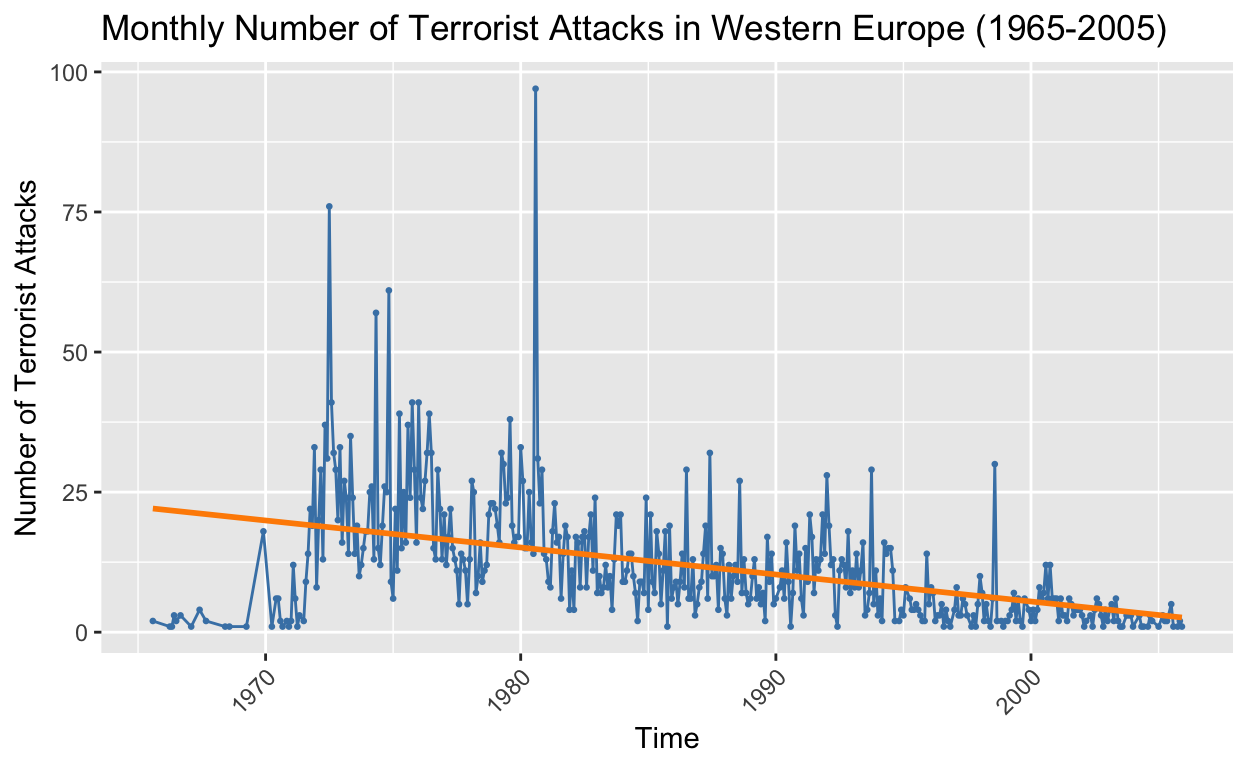
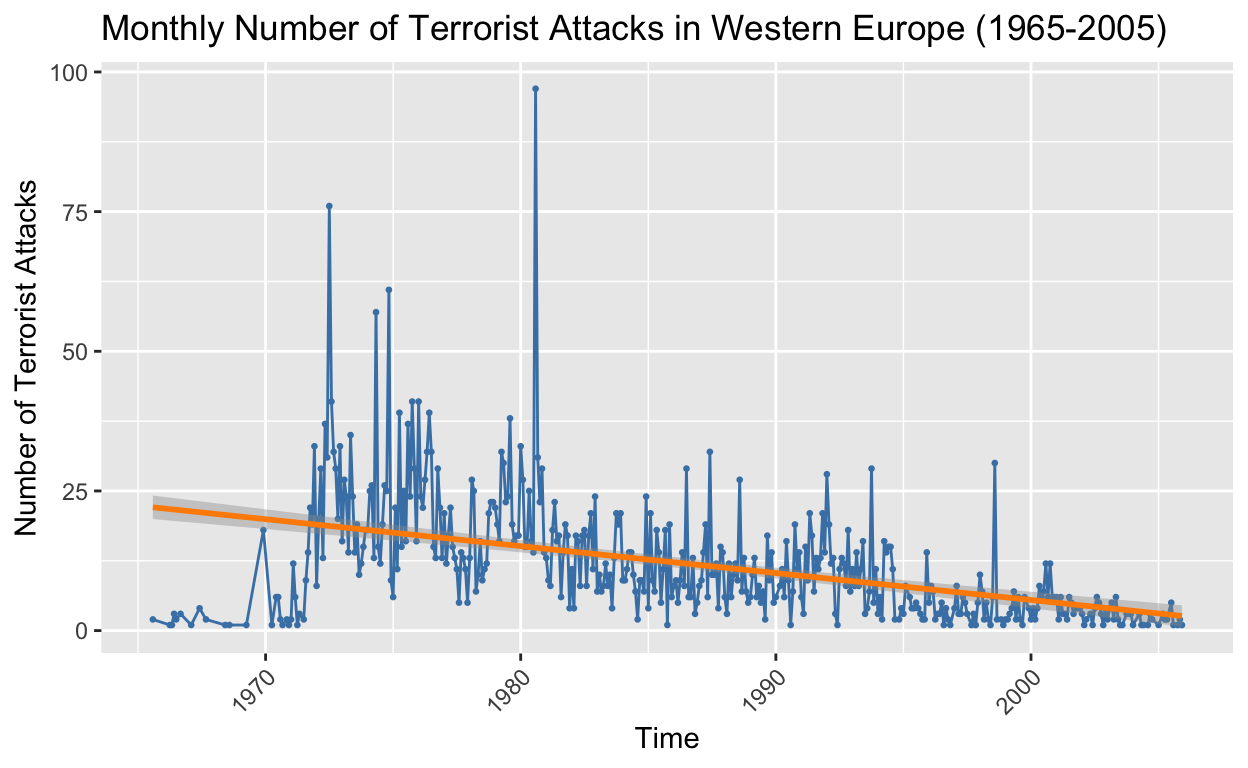
Task 4

diff --git a/index.html b/index.html
@@ -115,7 +115,7 @@ code span.wa { color: #5e5e5e; font-style: italic; } /* Warning */
   <!--/radix_placeholder_rmarkdown_metadata-->
   
   <script type="text/json" id="radix-resource-manifest">
-  {"type":"character","attributes":{},"value":["data/DTV2009.RData","index_files/anchor-4.2.2/anchor.min.js","index_files/bowser-1.9.3/bowser.min.js","index_files/distill-2.2.21/template.v2.js","index_files/figure-html5/Analysis 1-1.png","index_files/figure-html5/Analysis 2-1.png","index_files/header-attrs-2.17/header-attrs.js","index_files/header-attrs-2.25/header-attrs.js","index_files/jquery-3.6.0/jquery-3.6.0.js","index_files/jquery-3.6.0/jquery-3.6.0.min.js","index_files/jquery-3.6.0/jquery-3.6.0.min.map","index_files/popper-2.6.0/popper.min.js","index_files/tippy-6.2.7/tippy-bundle.umd.min.js","index_files/tippy-6.2.7/tippy-light-border.css","index_files/tippy-6.2.7/tippy.css","index_files/tippy-6.2.7/tippy.umd.min.js","index_files/webcomponents-2.0.0/webcomponents.js"]}
+  {"type":"character","attributes":{},"value":["data/DTV2009.RData","index_files/anchor-4.2.2/anchor.min.js","index_files/bowser-1.9.3/bowser.min.js","index_files/distill-2.2.21/template.v2.js","index_files/figure-html5/Analysis 1-1.png","index_files/figure-html5/Analysis 2-1.png","index_files/figure-html5/Analysis 3-1.png","index_files/header-attrs-2.17/header-attrs.js","index_files/header-attrs-2.25/header-attrs.js","index_files/jquery-3.6.0/jquery-3.6.0.js","index_files/jquery-3.6.0/jquery-3.6.0.min.js","index_files/jquery-3.6.0/jquery-3.6.0.min.map","index_files/popper-2.6.0/popper.min.js","index_files/tippy-6.2.7/tippy-bundle.umd.min.js","index_files/tippy-6.2.7/tippy-light-border.css","index_files/tippy-6.2.7/tippy.css","index_files/tippy-6.2.7/tippy.umd.min.js","index_files/webcomponents-2.0.0/webcomponents.js"]}
   </script>
   <!--radix_placeholder_navigation_in_header-->
   <!--/radix_placeholder_navigation_in_header-->
@@ -227,9 +227,21 @@ code span.wa { color: #5e5e5e; font-style: italic; } /* Warning */
     display: none !important;
   }
 
+  hr.section-separator {
+    border: none;
+    border-top: 1px solid rgba(0, 0, 0, 0.1);
+    margin: 0px;
+  }
+
+
+  d-byline {
+    border-top: none;
+  }
+
   d-article {
     padding-top: 2.5rem;
     padding-bottom: 30px;
+    border-top: none;
   }
 
   d-appendix {
@@ -324,6 +336,11 @@ code span.wa { color: #5e5e5e; font-style: italic; } /* Warning */
   d-article div.sourceCode pre {
     padding-left: 18px;
     font-size: 14px;
+  }
+
+  /* tweak for Pandoc numbered line within distill */
+  d-article pre.numberSource code > span {
+      left: -2em;
   }
 
   d-article pre {
@@ -1085,6 +1102,12 @@ code span.wa { color: #5e5e5e; font-style: italic; } /* Warning */
     // create d-title
     $('.d-title').changeElementType('d-title');
 
+    // separator
+    var separator = '<hr class="section-separator" style="clear: both"/>';
+    // prepend separator above appendix
+    $('.d-byline').before(separator);
+    $('.d-article').before(separator);
+
     // create d-byline
     var byline = $('<d-byline></d-byline>');
     $('.d-byline').replaceWith(byline);
@@ -1162,8 +1185,9 @@ code span.wa { color: #5e5e5e; font-style: italic; } /* Warning */
     $('.distill-force-highlighting-css').parent().remove();
 
     // remove empty line numbers inserted by pandoc when using a
-    // custom syntax highlighting theme
-    $('code.sourceCode a:empty').remove();
+    // custom syntax highlighting theme, except when numbering line
+    // in code chunk
+    $('pre:not(.numberLines) code.sourceCode a:empty').remove();
 
     // load distill framework
     load_distill_framework();
@@ -1189,12 +1213,13 @@ code span.wa { color: #5e5e5e; font-style: italic; } /* Warning */
       // add orcid ids
       $('.authors-affiliations').find('.author').each(function(i, el) {
         var orcid_id = front_matter.authors[i].orcidID;
+        var author_name = front_matter.authors[i].author
         if (orcid_id) {
           var a = $('<a></a>');
           a.attr('href', 'https://orcid.org/' + orcid_id);
           var img = $('<img></img>');
           img.addClass('orcid-id');
-          img.attr('alt', 'ORCID ID');
+          img.attr('alt', author_name ? 'ORCID ID for ' + author_name : 'ORCID ID');
[1 lines of base64/hex data omitted]
           a.append(img);
           $(this).append(a);
@@ -1504,6 +1529,7 @@ code span.wa { color: #5e5e5e; font-style: italic; } /* Warning */
 
 <div class="d-title">
 <h1>Gov 50 Final Project</h1>
+
 <!--radix_placeholder_categories-->
 <!--/radix_placeholder_categories-->
 <p>My final project</p>
@@ -1559,6 +1585,45 @@ code span.wa { color: #5e5e5e; font-style: italic; } /* Warning */
 </div>
 <p><img src="index_files/figure-html5/Analysis%201-1.png" width="624" /></p>
 </div>
+<p>Analysis:</p>
+<p>The bar chart visualizes the frequency of terrorist killings in Western European countries from 1965 to 2005 by month. From the chart, it’s evident that May and August had the highest number of reported killings, with May being the peak. There’s a noticeable increase in killings starting from April, with a peak in May, followed by a somewhat high frequency that persists through the summer and fall months before tapering off towards the end of the year. This pattern could suggest a seasonal trend in the frequency of terrorist activities, with late spring to early fall being periods of higher risk. However, to establish a solid conclusion, it would be essential to analyze the context of these events, the types of groups active during these times, and other socio-political factors that might influence these patterns</p>
+<p>However, upon further analysis, it’s important to note that this data is significantly skewed by four “mass casualty” events. Specifically, in May, there was one such event accounting for 26 deaths, which heavily influences the peak observed. In August, two mass casualty events, with 85 and 29 deaths respectively, disproportionately inflate the figures for that month. The presence of these outliers suggests that the apparent seasonal trend, with a spike in late spring and persisting through summer and fall, might not accurately reflect the general pattern of terrorist activities. For that reason, we should look at ways to potentially remove outlier events that significantly skew data.</p>
+<div class="layout-chunk" data-layout="l-body">
+<div class="sourceCode">
+<pre class="sourceCode r"><code class="sourceCode r"><span><span class='co'># Revised Code for Distinct Count of Attacks per Month</span></span>
+<span></span>
+<span><span class='kw'><a href='https://rdrr.io/r/base/library.html'>library</a></span><span class='op'>(</span><span class='va'><a href='https://tidyverse.tidyverse.org'>tidyverse</a></span><span class='op'>)</span></span>
+<span></span>
+<span><span class='fu'><a href='https://rdrr.io/r/base/load.html'>load</a></span><span class='op'>(</span><span class='st'>"data/DTV2009.RData"</span><span class='op'>)</span></span>
+<span></span>
+<span><span class='va'>x_clean</span> <span class='op'>&lt;-</span> <span class='va'>x</span> <span class='op'><a href='https://magrittr.tidyverse.org/reference/pipe.html'>%&gt;%</a></span></span>
+<span>  <span class='fu'><a href='https://dplyr.tidyverse.org/reference/filter.html'>filter</a></span><span class='op'>(</span><span class='va'>month</span> <span class='op'>&gt;=</span> <span class='fl'>1</span> <span class='op'>&amp;</span> <span class='va'>month</span> <span class='op'>&lt;=</span> <span class='fl'>12</span><span class='op'>)</span></span>
+<span></span>
+<span><span class='co'># Counting distinct number of attacks per month</span></span>
+<span><span class='va'>monthly_attacks_distinct</span> <span class='op'>&lt;-</span> <span class='va'>x_clean</span> <span class='op'><a href='https://magrittr.tidyverse.org/reference/pipe.html'>%&gt;%</a></span></span>
+<span>  <span class='fu'><a href='https://dplyr.tidyverse.org/reference/group_by.html'>group_by</a></span><span class='op'>(</span><span class='va'>month</span><span class='op'>)</span> <span class='op'><a href='https://magrittr.tidyverse.org/reference/pipe.html'>%&gt;%</a></span></span>
+<span>  <span class='fu'><a href='https://dplyr.tidyverse.org/reference/summarise.html'>summarize</a></span><span class='op'>(</span>NumberOfAttacks <span class='op'>=</span> <span class='fu'><a href='https://dplyr.tidyverse.org/reference/n_distinct.html'>n_distinct</a></span><span class='op'>(</span><span class='va'>attack</span><span class='op'>)</span><span class='op'>)</span></span>
+<span></span>
+<span><span class='co'># Plotting the distinct number of attacks</span></span>
+<span><span class='fu'><a href='https://ggplot2.tidyverse.org/reference/ggplot.html'>ggplot</a></span><span class='op'>(</span><span class='va'>monthly_attacks_distinct</span>, <span class='fu'><a href='https://ggplot2.tidyverse.org/reference/aes.html'>aes</a></span><span class='op'>(</span>x <span class='op'>=</span> <span class='fu'><a href='https://rdrr.io/r/base/factor.html'>factor</a></span><span class='op'>(</span><span class='va'>month</span>, levels <span class='op'>=</span> <span class='fl'>1</span><span class='op'>:</span><span class='fl'>12</span><span class='op'>)</span>, y <span class='op'>=</span> <span class='va'>NumberOfAttacks</span><span class='op'>)</span><span class='op'>)</span> <span class='op'>+</span></span>
+<span>  <span class='fu'><a href='https://ggplot2.tidyverse.org/reference/geom_bar.html'>geom_bar</a></span><span class='op'>(</span>stat <span class='op'>=</span> <span class='st'>"identity"</span>, fill <span class='op'>=</span> <span class='st'>"steelblue"</span><span class='op'>)</span> <span class='op'>+</span></span>
+<span>  <span class='fu'><a href='https://ggplot2.tidyverse.org/reference/scale_discrete.html'>scale_x_discrete</a></span><span class='op'>(</span>breaks <span class='op'>=</span> <span class='fl'>1</span><span class='op'>:</span><span class='fl'>12</span>, labels <span class='op'>=</span> <span class='va'>month.name</span><span class='op'>)</span> <span class='op'>+</span></span>
+<span>  <span class='fu'><a href='https://ggplot2.tidyverse.org/reference/labs.html'>labs</a></span><span class='op'>(</span>x <span class='op'>=</span> <span class='st'>"Month"</span>, y <span class='op'>=</span> <span class='st'>"Distinct Number of Attacks"</span>,</span>
+<span>       title <span class='op'>=</span> <span class='st'>"Monthly Distinct Number of Terrorist Attacks in Western Europe (1965-2005)"</span><span class='op'>)</span></span></code></pre>
+</div>
+<p><img src="index_files/figure-html5/Analysis%203-1.png" width="624" /></p>
+</div>
+<p>Therefore, we are now adjusting our approach. This new bar chart represents the monthly distribution of the distinct number of terrorist attacks in Western Europe from 1965 to 2005. This perspective focuses on the frequency of events rather than the severity in terms of casualties - providing us a fresh perspective that potentially removes the “mass casualty” events data skew we were faced with previously.</p>
+<p>The new graph shows a trend where the number of distinct terrorist attacks increases through the spring, reaching an evident peak during the summer months. The small dip in the fall, particularly in August and September, followed by a rise again in October and November, suggests potential seasonal factors or operational cycles may influence terrorist activity, as our hypothesis stated.</p>
+<p>This pattern could be related to various factors:</p>
+<p>Hypothesis 1: Operational Conditions: Better weather in spring and summer could facilitate the logistics of carrying out attacks. Additionally, longer daylight hours may offer more opportunities for actions that require daylight.</p>
+<p>Hypothesis 2: Vacation Periods: Summer months are typically vacation periods, which may not only affect the number of potential targets due to tourism but might also impact the availability of members within terrorist groups to both plan and execute attacks.</p>
+<p>Hypothesis 3: Political and Social Calendar: National holidays, elections or other political events often fall within these peak periods and may serve as catalysts for terrorist activities aimed at disrupting or making a statement during these times.</p>
+<p>The decrease in August and September could be due to a variety of factors, such as:</p>
+<p>Hypothesis 1: Return to Routine: As people return to work and school, there may be a temporary dip in the availability of targets or in the operational capacity of terrorist networks.</p>
+<p>Hypothesis 2: Counterterrorism Efforts: The return to work of police and national security forces from summer holidays could deter planned attacks.</p>
+<p>Hypothesis 3: Resource Reallocation: Terrorist groups may reallocate resources after a high-activity period, leading to a temporary dip in attacks in these months.</p>
+<p>It’s important to note that while this trend is observable in the data, it’s definitely only a starting point for understanding the complexities behind terrorist activities.</p>
 <div class="layout-chunk" data-layout="l-body">
 <div class="sourceCode">
 <pre class="sourceCode r"><code class="sourceCode r"><span><span class='kw'><a href='https://rdrr.io/r/base/library.html'>library</a></span><span class='op'>(</span><span class='va'><a href='https://ggplot2.tidyverse.org'>ggplot2</a></span><span class='op'>)</span></span>
@@ -1577,13 +1642,14 @@ code span.wa { color: #5e5e5e; font-style: italic; } /* Warning */
 <span><span class='fu'><a href='https://ggplot2.tidyverse.org/reference/ggplot.html'>ggplot</a></span><span class='op'>(</span><span class='va'>monthly_attacks</span>, <span class='fu'><a href='https://ggplot2.tidyverse.org/reference/aes.html'>aes</a></span><span class='op'>(</span>x <span class='op'>=</span> <span class='va'>date</span>, y <span class='op'>=</span> <span class='va'>NumberOfAttacks</span><span class='op'>)</span><span class='op'>)</span> <span class='op'>+</span></span>
 <span>  <span class='fu'><a href='https://ggplot2.tidyverse.org/reference/geom_path.html'>geom_line</a></span><span class='op'>(</span>color <span class='op'>=</span> <span class='st'>"steelblue"</span><span class='op'>)</span> <span class='op'>+</span></span>
 <span>  <span class='fu'><a href='https://ggplot2.tidyverse.org/reference/geom_point.html'>geom_point</a></span><span class='op'>(</span>size <span class='op'>=</span> <span class='fl'>0.5</span>, color <span class='op'>=</span> <span class='st'>"steelblue"</span><span class='op'>)</span> <span class='op'>+</span>  </span>
-<span>  <span class='fu'><a href='https://ggplot2.tidyverse.org/reference/geom_smooth.html'>geom_smooth</a></span><span class='op'>(</span>method <span class='op'>=</span> <span class='st'>"lm"</span>, se <span class='op'>=</span> <span class='cn'>FALSE</span>, color <span class='op'>=</span> <span class='st'>"darkorange"</span><span class='op'>)</span> <span class='op'>+</span>  </span>
+<span>  <span class='fu'><a href='https://ggplot2.tidyverse.org/reference/geom_smooth.html'>geom_smooth</a></span><span class='op'>(</span>method <span class='op'>=</span> <span class='st'>"lm"</span>, color <span class='op'>=</span> <span class='st'>"darkorange"</span><span class='op'>)</span> <span class='op'>+</span>  </span>
 <span>  <span class='fu'><a href='https://ggplot2.tidyverse.org/reference/labs.html'>labs</a></span><span class='op'>(</span>x <span class='op'>=</span> <span class='st'>"Time"</span>, y <span class='op'>=</span> <span class='st'>"Number of Terrorist Attacks"</span>,</span>
 <span>       title <span class='op'>=</span> <span class='st'>"Monthly Number of Terrorist Attacks in Western Europe (1965-2005)"</span><span class='op'>)</span> <span class='op'>+</span></span>
 <span>  <span class='fu'><a href='https://ggplot2.tidyverse.org/reference/theme.html'>theme</a></span><span class='op'>(</span>axis.text.x <span class='op'>=</span> <span class='fu'><a href='https://ggplot2.tidyverse.org/reference/element.html'>element_text</a></span><span class='op'>(</span>angle <span class='op'>=</span> <span class='fl'>45</span>, hjust <span class='op'>=</span> <span class='fl'>1</span><span class='op'>)</span><span class='op'>)</span></span></code></pre>
 </div>
 <p><img src="index_files/figure-html5/Analysis%202-1.png" width="624" /></p>
 </div>
+<p>Here, we notice that the monthly number of terrorist attacks in Western Europe is steadily decreasing from 1965 to 2005. Admittedly, this graph does not provide much information in the context of our hypothesis on the seasonality of terrorist events, even though it does show that there is a notable decrease in terrorist attacks through the years - which is why I added it; things are seemingly getting better!</p>
 <div class="sourceCode" id="cb2"><pre class="sourceCode r distill-force-highlighting-css"><code class="sourceCode r"></code></pre></div>
 <!--radix_placeholder_article_footer-->
 <!--/radix_placeholder_article_footer-->
